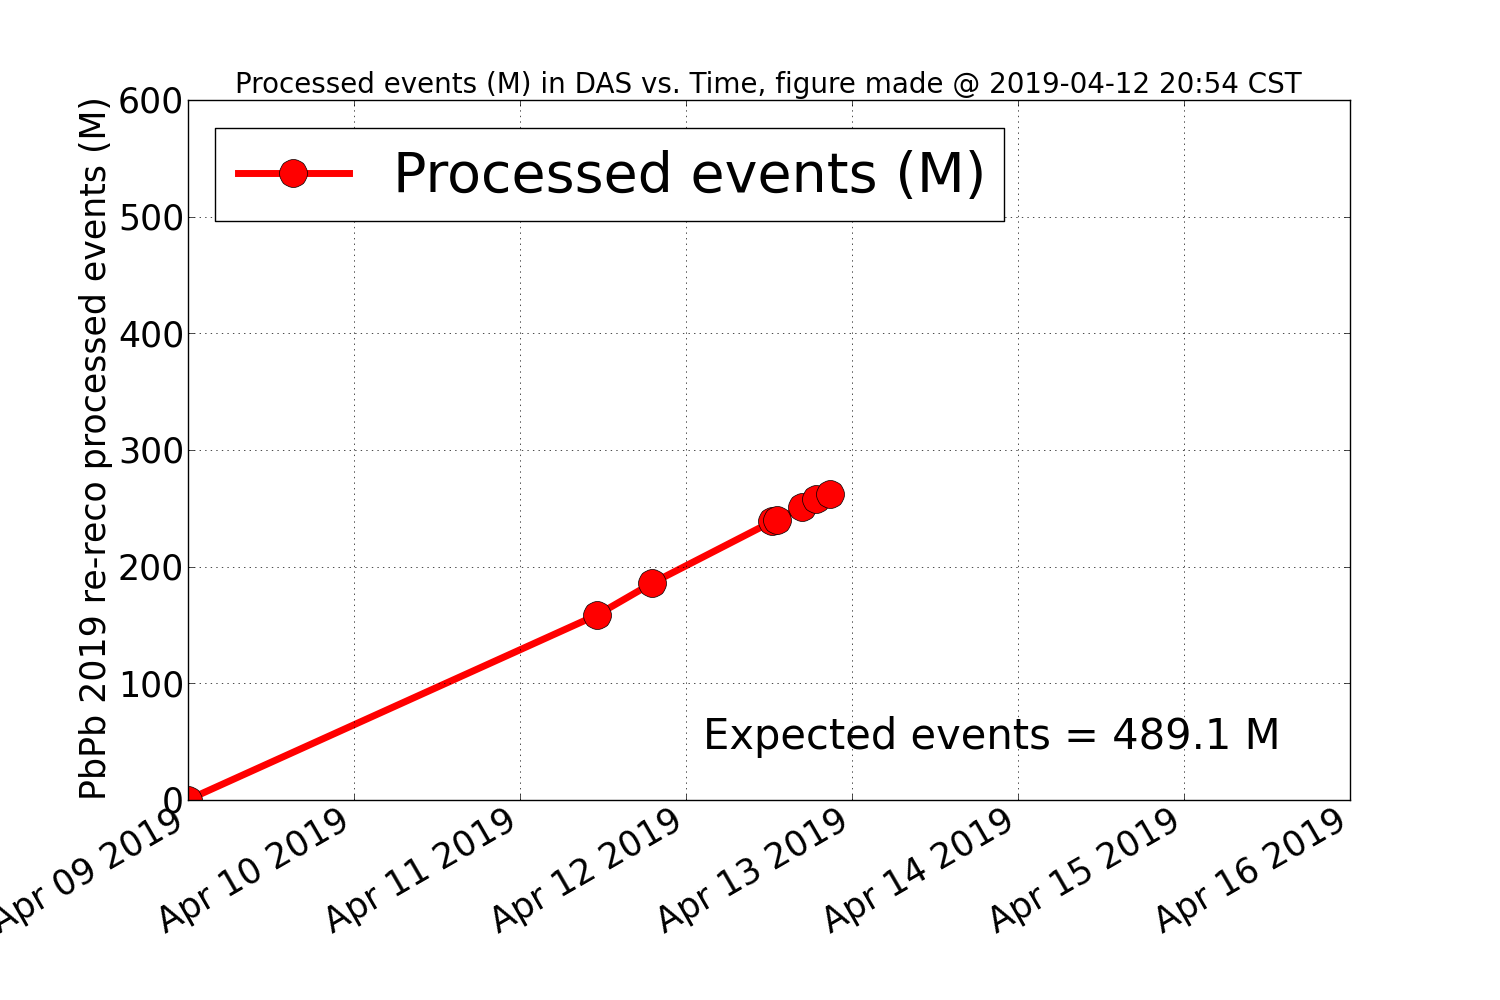
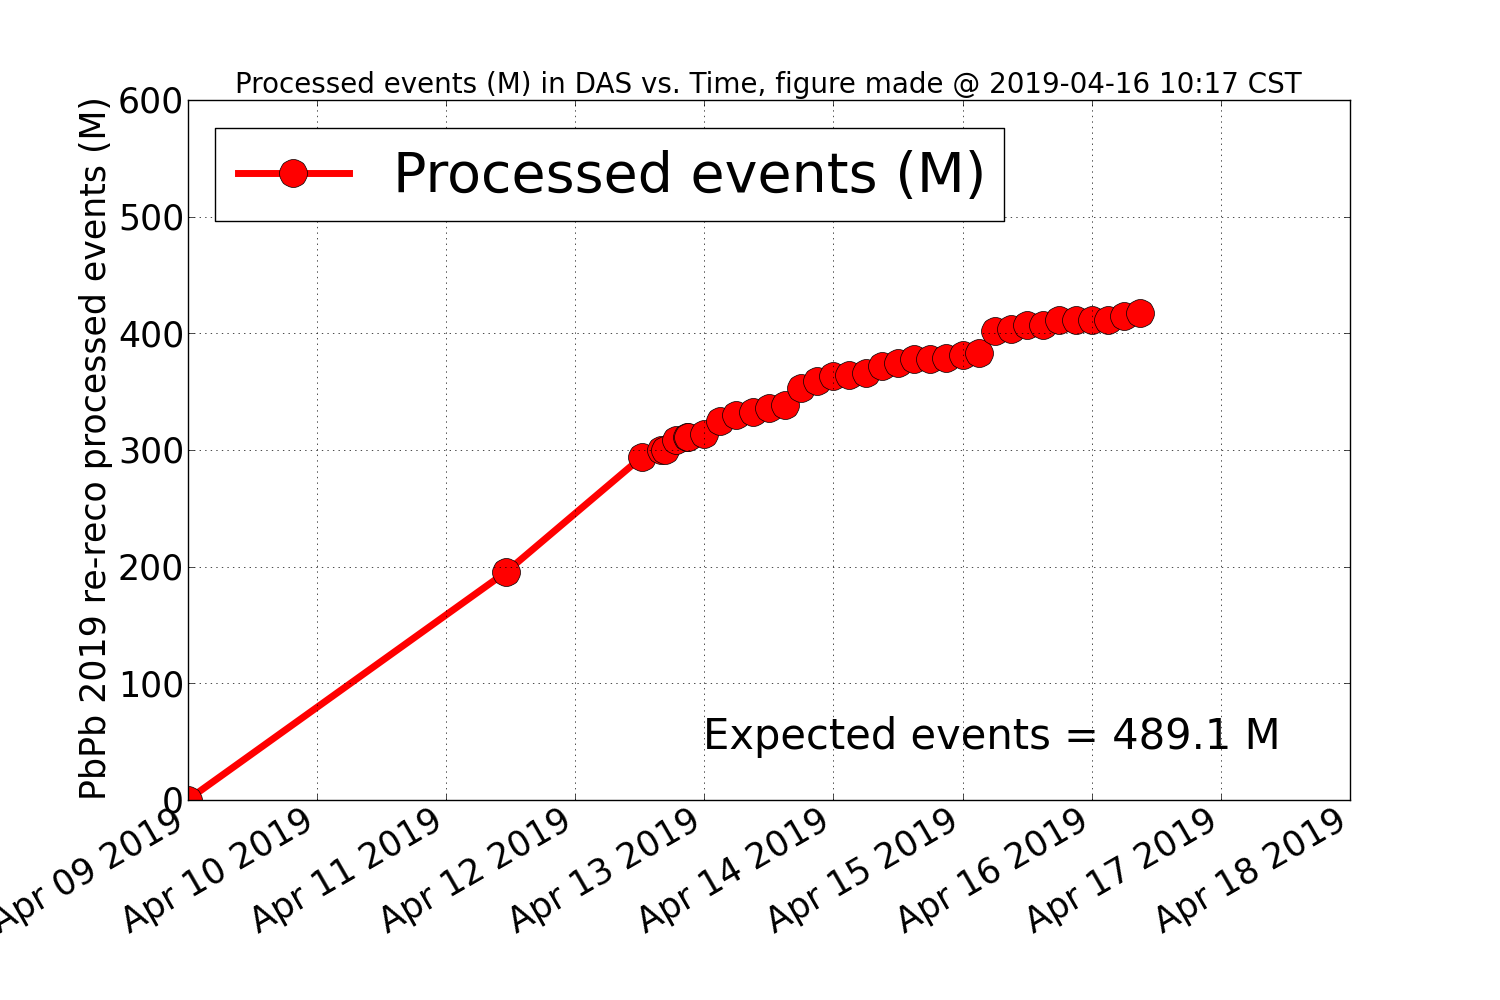
fix the bug for processed events fig

diff --git a/rerecoMonitor/Visualization/makePlot.py b/rerecoMonitor/Visualization/makePlot.py
@@ -18,7 +18,7 @@ ax.tick_params(axis='y', labelsize=25)
 plt.grid(True)
 plt.ylim(0, 500)
 fig.autofmt_xdate()
-plt.xlim([datetime.date(2019, 4, 9), datetime.date(2019, 4, 16)])
+plt.xlim([datetime.date(2019, 4, 9), datetime.date(2019, 4, 18)])
 fig.savefig('rerecoVandyVolume.png')
 
 # fig for vandy usable size
@@ -36,7 +36,7 @@ ax.tick_params(axis='y', labelsize=25)
 plt.grid(True)
 plt.ylim(0, 1300)
 fig.autofmt_xdate()
-plt.xlim([datetime.date(2019, 4, 9), datetime.date(2019, 4, 16)])
+plt.xlim([datetime.date(2019, 4, 9), datetime.date(2019, 4, 18)])
 fig.savefig('vandyUsableVolume.png')
 
 # fig for re-reco progress
@@ -45,7 +45,7 @@ days3, nEvents = np.loadtxt("../AODProgress/output_rereco_events.txt", unpack=Tr
 
 fig = plt.figure(figsize=(15,10))
 nEvents=nEvents*(1e-6)
-plt.plot_date(x=days, y=volumeSize, fmt="r", marker='o', markersize=20, linestyle='-', color='r', linewidth=5.0, label='Processed events (M)')
+plt.plot_date(x=days3, y=nEvents, fmt="r", marker='o', markersize=20, linestyle='-', color='r', linewidth=5.0, label='Processed events (M)')
 plt.legend(loc='upper left', numpoints = 1, fontsize=40)
 plt.title("Processed events (M) in DAS vs. Time, figure made @ "+str(datetime.datetime.now().strftime("%Y-%m-%d %H:%M"))+" CST", fontsize=20)
 plt.ylabel("PbPb 2019 re-reco processed events (M)", fontsize=25)
@@ -56,7 +56,7 @@ ax.tick_params(axis='y', labelsize=25)
 plt.grid(True)
 plt.ylim(0, 600)
 fig.autofmt_xdate()
-plt.xlim([datetime.date(2019, 4, 9), datetime.date(2019, 4, 16)])
+plt.xlim([datetime.date(2019, 4, 9), datetime.date(2019, 4, 18)])
 fig.savefig('rerecoProgressEvents.png')
 
 
